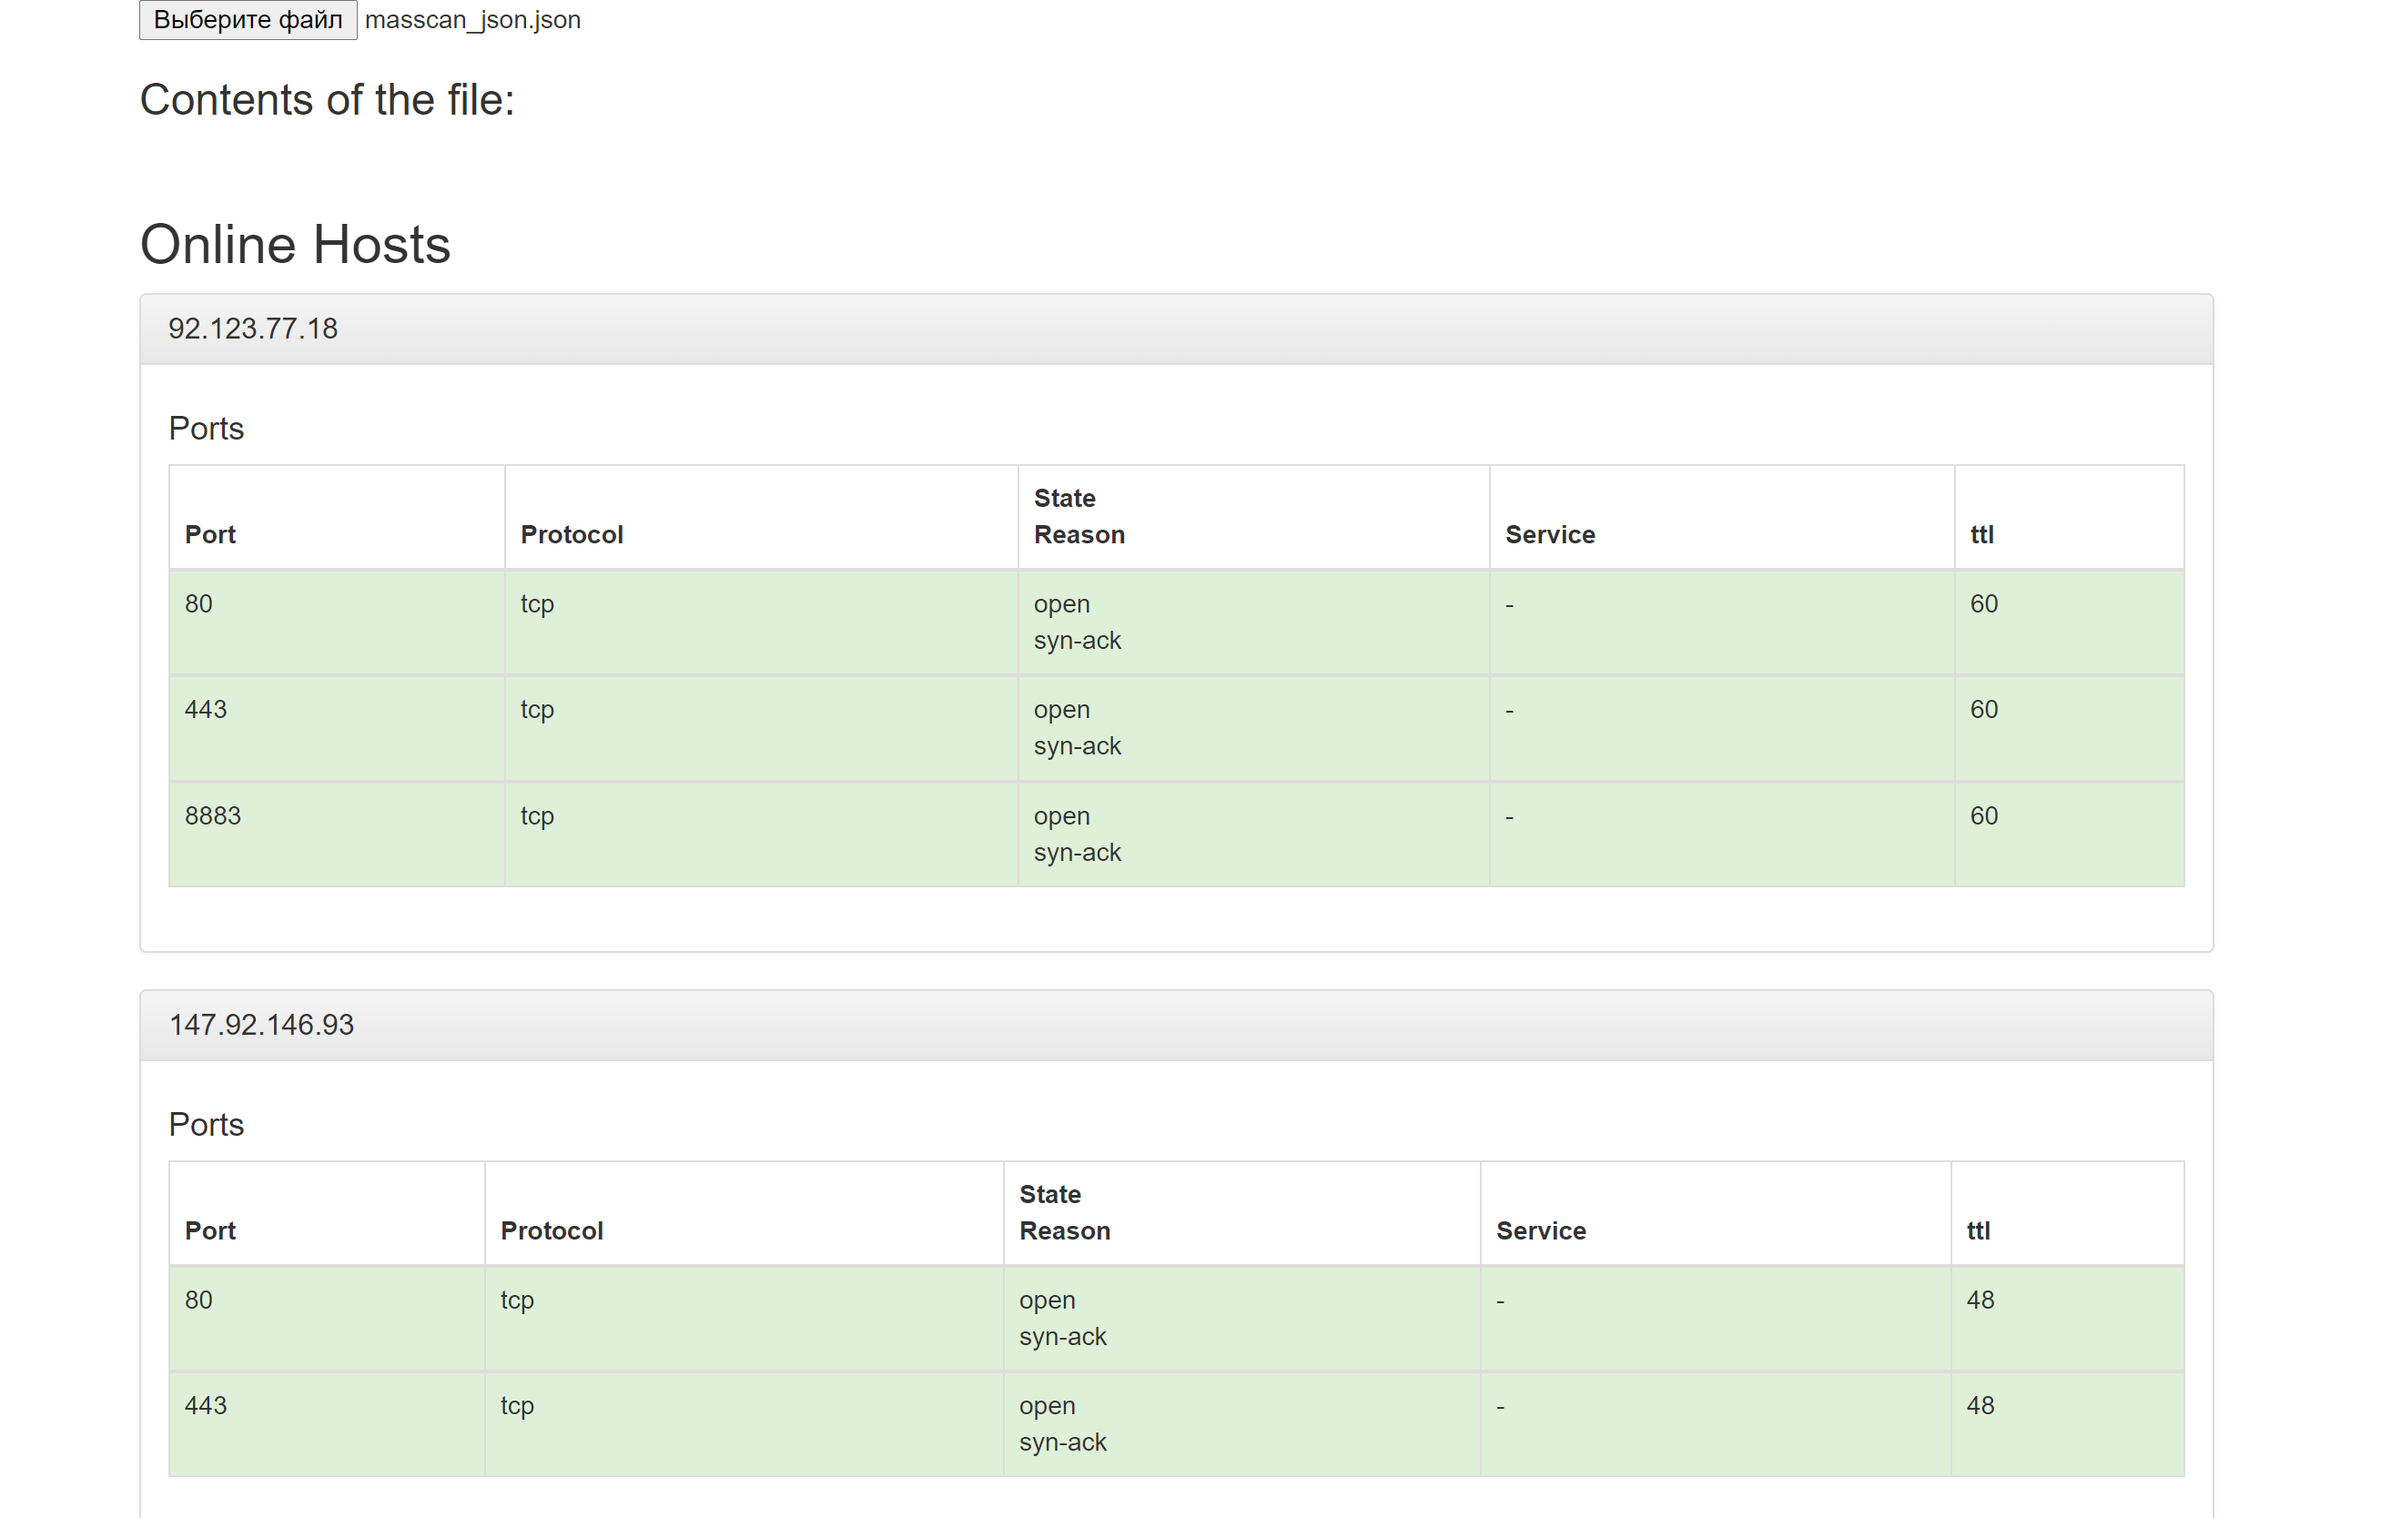
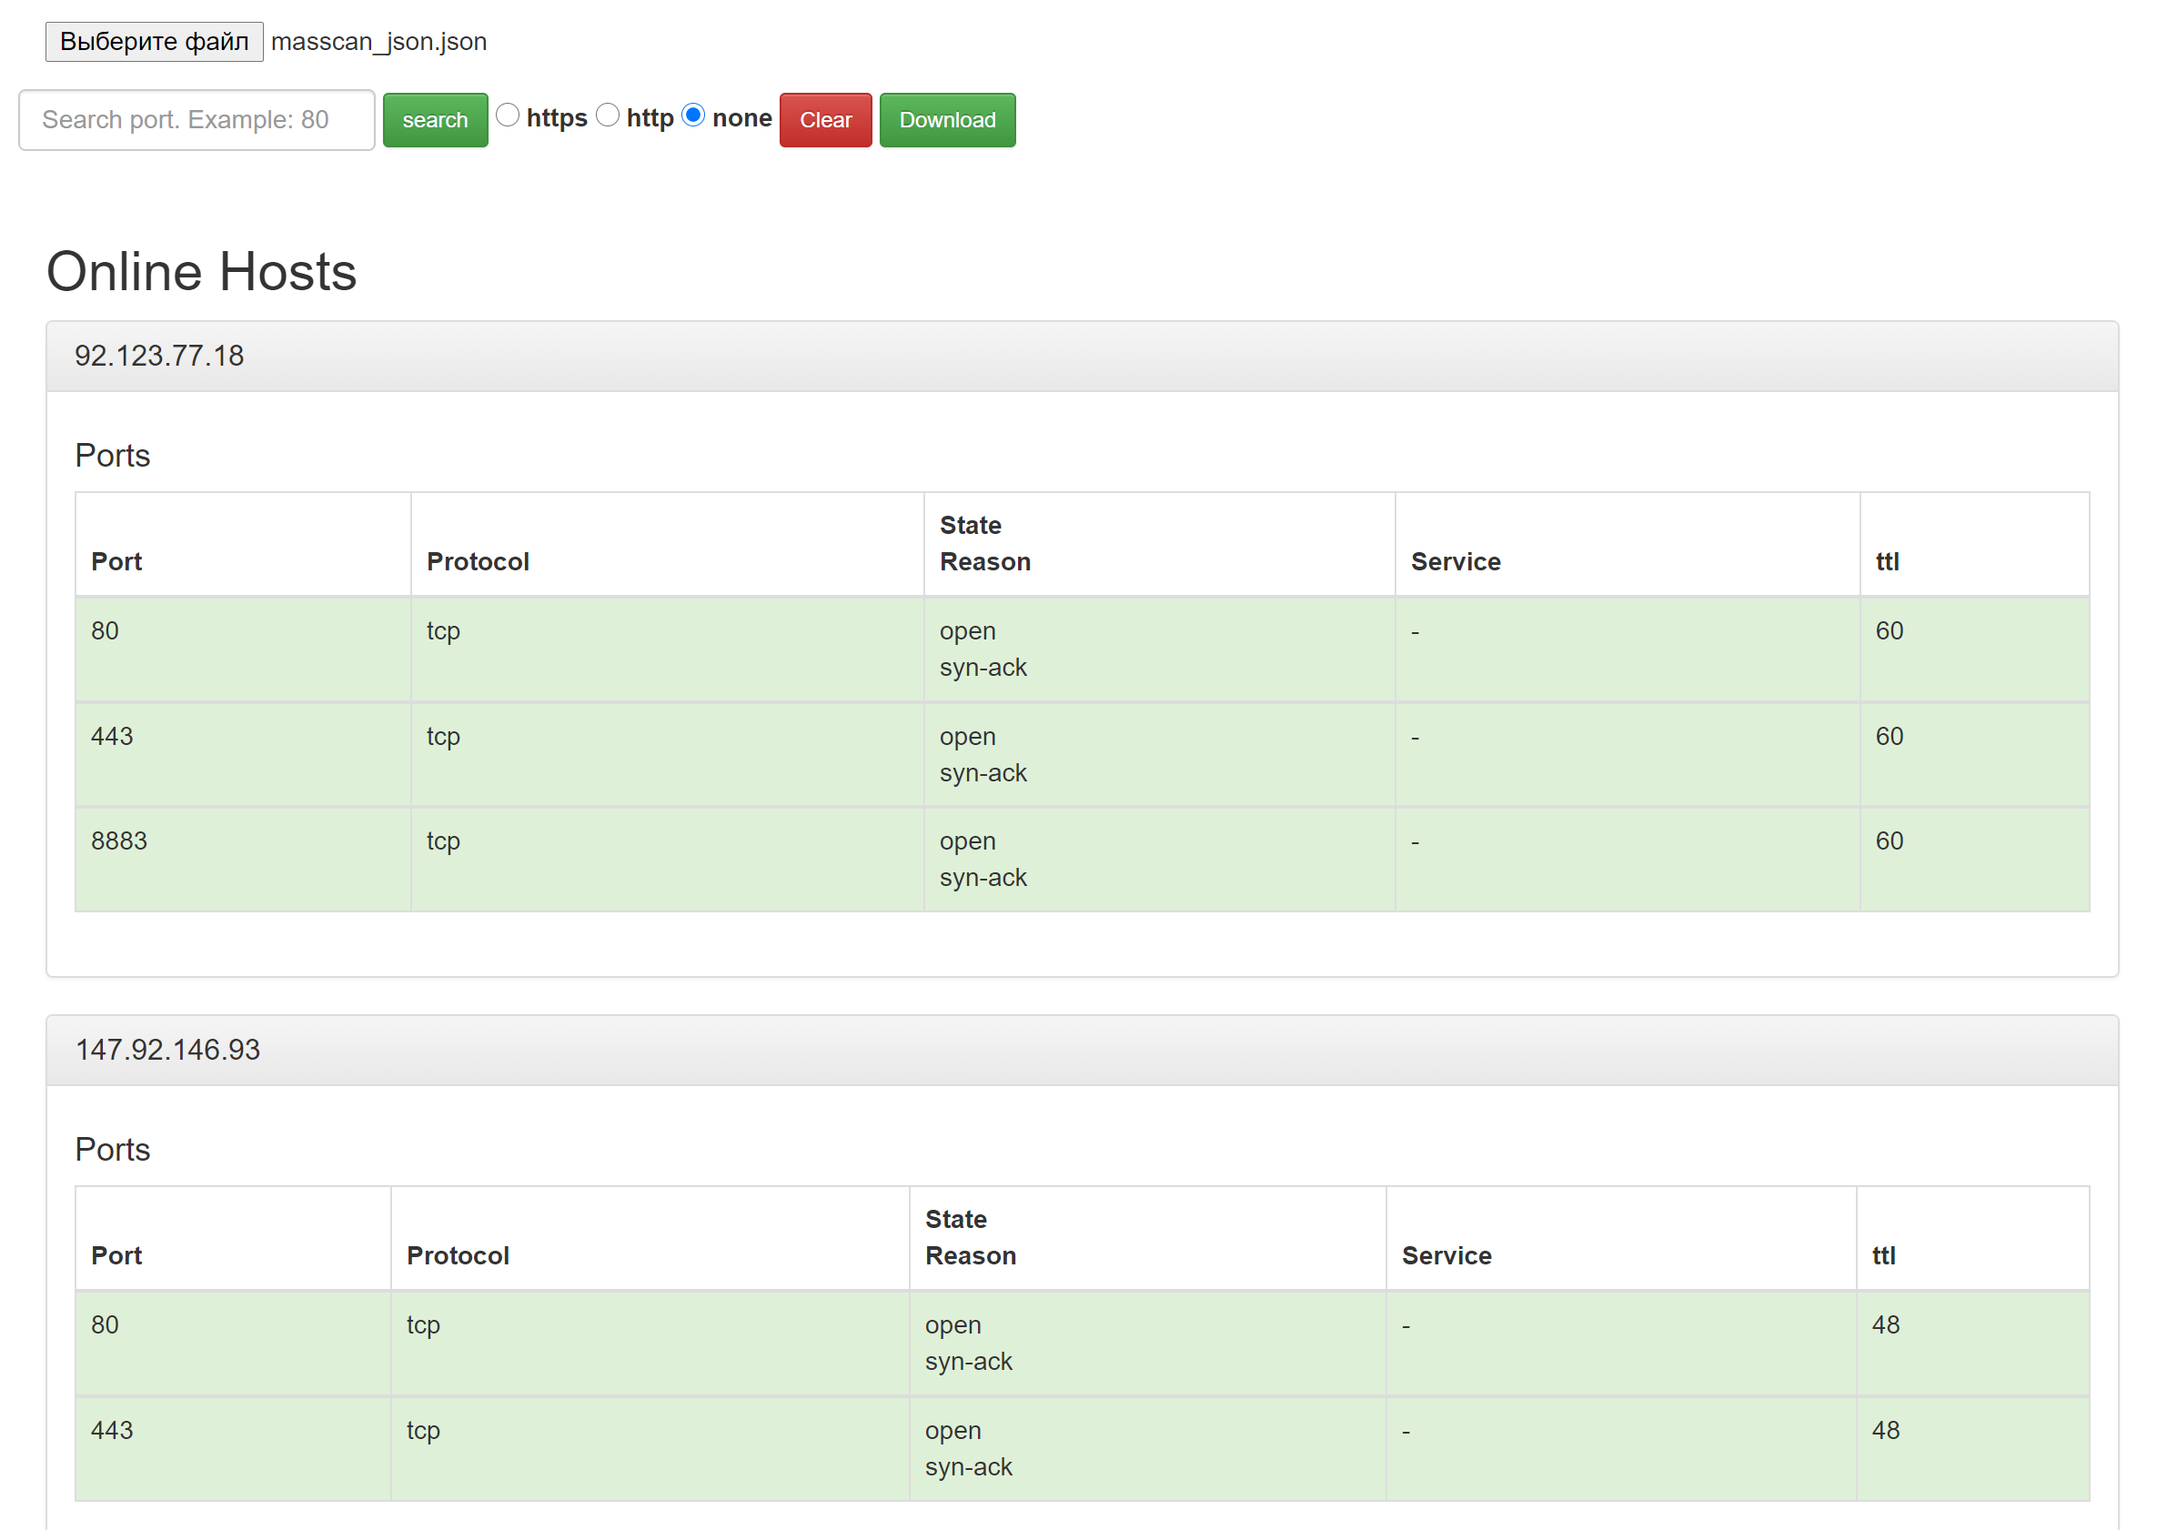
Added search in report

diff --git a/masscan-bootstrap.html b/masscan-bootstrap.html
@@ -27,12 +27,45 @@
         height: 180px;
         background-color: #f5f5f5;
       }
+
+      #file-input {
+      	margin: 15px 0;
+      }
+
+      .host-search {
+      	margin-top: 10px;
+      }
     </style>
 </head>
 <body>
 	<div id="app" class="container">
+	
 	<input type="file" id="file-input" v-on:change="readSingleFile">
-	<h3>Contents of the file:</h3>
+	<form class="row form-inline">
+		<div class="form-group">
+			<input type="text" class="form-control" placeholder="Search port. Example: 80" v-model="search">
+		</div>
+		
+		<!-- <input type="text" placeholder="Search port. Example: 80" v-model="search"> -->
+		<button class="btn btn-sm btn-success" v-on:click="searchHosts">search</button>
+
+		<input type="radio" id="https" name="protocol" value="https" v-model="proto">
+		<label for="https">https</label>
+
+		<input type="radio" id="http" name="protocol" value="http" v-model="proto">
+		<label for="http">http</label>
+
+		<input type="radio" id="non-protocol" name="protocol" value="none" v-model="proto">
+		<label for="non-protocol">none</label>
+
+		<button class="btn btn-sm btn-danger" v-on:click.prevent="clearSearch">Clear</button>
+
+
+		<button class="btn btn-sm btn-success" v-on:click.prevent="download">Download</button>
+	</form>
+	<ul class="host-search">
+		<li v-for="host in port_search_result"><span v-if="proto == 'https'">https://</span><span v-if="proto == 'http'">http://</span>{{ host.ip }}:{{ host.port }}</li>
+	</ul>
 	<h2 id="onlinehosts" class="target">Online Hosts</h2>
 <div v-for="ip in ips">
 	<div class="panel panel-default">
@@ -80,7 +113,10 @@
 	let app = new Vue({
 	  el: '#app',
 	  data: {
-	    ips: []
+	    ips: [],
+	    search: "",
+	    port_search_result: [],
+	    proto: ""
 	  },
 	  methods:{
 	  	readSingleFile: function(event) {
@@ -110,7 +146,37 @@
 				}
 			}
 			this.ips = unique_data;
-	  	}
+	  	},
+	  	searchHosts: function(event){
+	  		event.preventDefault();
+	  		if(this.search){
+	  			let result = [];
+	  			for (let i = 0; i < this.ips.length; i++){
+	  				for (let j = 0; j < this.ips[i].ports.length; j++){
+	  					if (this.ips[i].ports[j].port == this.search){
+	  						result.push({ip: this.ips[i].ip, port: this.ips[i].ports[j].port})
+	  					}
+	  				}
+	  			}
+	  			this.port_search_result = result;
+	  		}
+	  	},
+	  	clearSearch: function(){
+	  		this.port_search_result = [];
+	  	},
+
+	  	download: function(){
+			let raw_hosts = document.querySelectorAll("ul.host-search li");
+			let hosts = []
+			for (let i = 0; i < raw_hosts.length; i++){
+				hosts.push(raw_hosts[i].innerText);
+			}
+			let atag = document.createElement("a");
+			let file = new Blob([hosts.join('\n')], {type: 'text/plain'});
+			atag.href = URL.createObjectURL(file);
+			atag.download = "hosts.txt";
+			atag.click();
+		}
 	  }
 	});
 </script>

diff --git a/Readme.md b/Readme.md
@@ -1,6 +1,7 @@
 #   masscan-bootstrap
 
-Using this you can beautify your JSON masscan report.
+Using this you can beautify your JSON masscan report and do search in this one.
+You can do search and download result for further actions - fuzzing and etc.
 
 Fork of [nmap-bootstrap-xsl](https://github.com/honze-net/nmap-bootstrap-xsl)
 
@@ -13,3 +14,5 @@ Fork of [nmap-bootstrap-xsl](https://github.com/honze-net/nmap-bootstrap-xsl)
 Example:
 
 ![](masscan-1.png)
+
+![](masscan-2.png)
